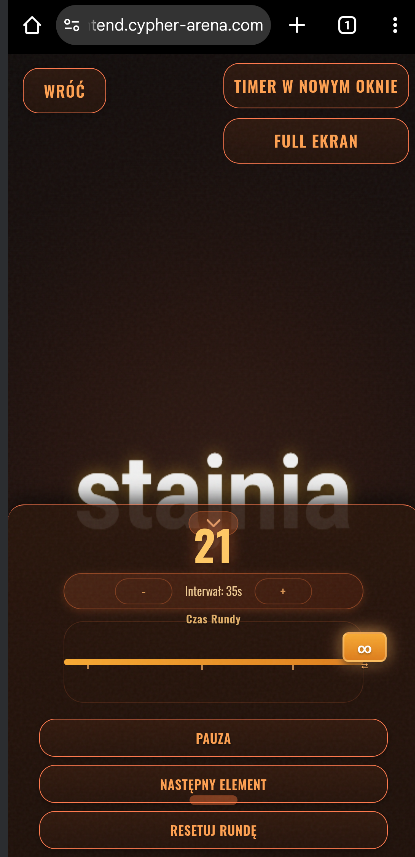
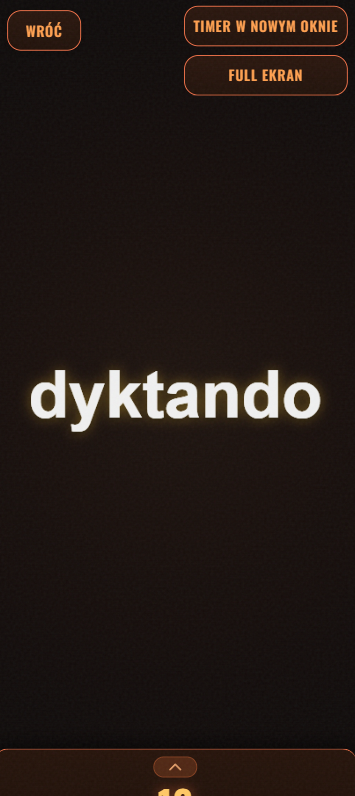
current

Changed region(s): [[0.062, 0.4523, 0.9606, 1.0], [0.0, 0.0, 0.9915, 1.0]]

diff --git a/frontend/src/components/BattleMode/SharedControls/TimerControls.js b/frontend/src/components/BattleMode/SharedControls/TimerControls.js
@@ -479,7 +479,7 @@ export const TimerControls = ({
             justifyContent: 'center',
             gap: '20px',
             transition: 'all 0.3s ease',
-            transform: 'translateY(60px)', // Show only top half
+            transform: 'translateY(40px)', // Show more of the timer content
           }}
         >
           {/* Expand arrow */}
@@ -535,6 +535,7 @@ export const TimerControls = ({
             textShadow: isActive ? '0 0 15px rgba(255, 120, 60, 0.5), 0 2px 4px rgba(0, 0, 0, 0.7)' : '0 2px 4px rgba(0, 0, 0, 0.7)',
             letterSpacing: '1px',
             lineHeight: '1.0',
+            marginTop: '-20px', // Move timer up to be more visible in collapsed state
           }}>
             {timer}
           </div>
